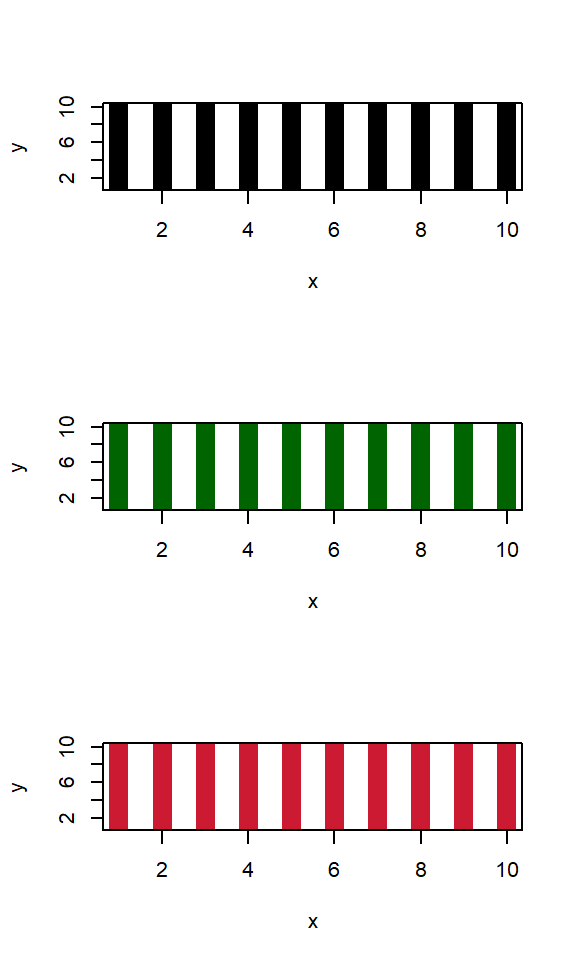
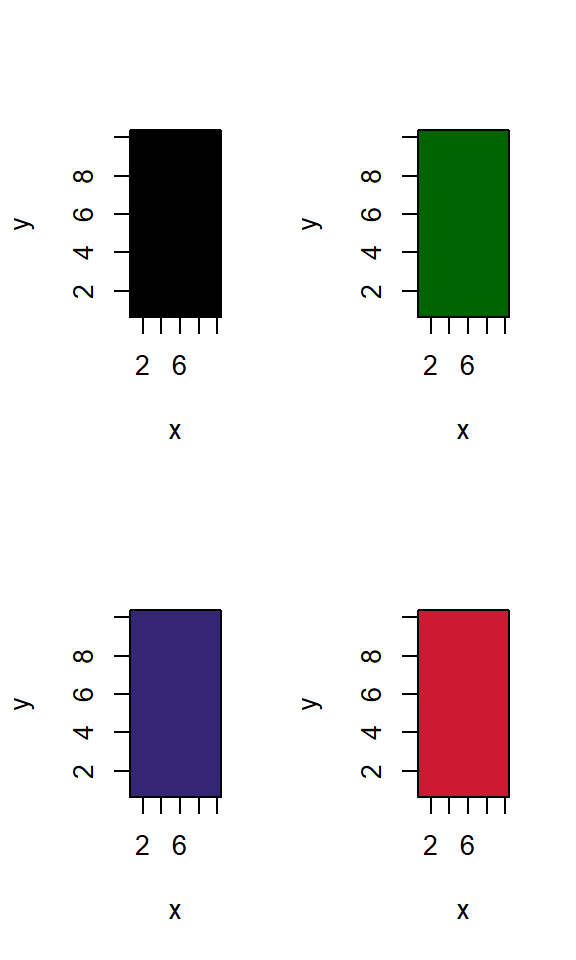
Built site for gh-pages

diff --git a/ADR-2_packages_plot.html b/ADR-2_packages_plot.html
@@ -261,7 +261,7 @@ Diego Nieto Lugilde
 <pre><code>package 'openxlsx' successfully unpacked and MD5 sums checked
 
 The downloaded binary packages are in
-    C:\Users\Diego\AppData\Local\Temp\RtmpwB04m3\downloaded_packages</code></pre>
+    C:\Users\Diego\AppData\Local\Temp\Rtmp2Btp8i\downloaded_packages</code></pre>
 </div>
 </div>
 </section>
@@ -295,7 +295,7 @@ The downloaded binary packages are in
 <pre><code>package 'devtools' successfully unpacked and MD5 sums checked
 
 The downloaded binary packages are in
-    C:\Users\Diego\AppData\Local\Temp\RtmpwB04m3\downloaded_packages</code></pre>
+    C:\Users\Diego\AppData\Local\Temp\Rtmp2Btp8i\downloaded_packages</code></pre>
 </div>
 <div class="sourceCode cell-code" id="cb6"><pre class="sourceCode numberSource r number-lines code-with-copy"><code class="sourceCode r"><span id="cb6-1"><a></a><span class="fu">library</span>(devtools)</span>
 <span id="cb6-2"><a></a></span>
@@ -384,7 +384,7 @@ The downloaded binary packages are in
 <span id="cb11-2"><a></a>y <span class="ot">&lt;-</span> <span class="fu">rep</span>(<span class="fu">c</span>(<span class="st">"high"</span>, <span class="st">"med"</span>, <span class="st">"low"</span>), <span class="dv">10</span>)</span>
 <span id="cb11-3"><a></a>dat <span class="ot">&lt;-</span> <span class="fu">data.frame</span>(<span class="at">size =</span> x, <span class="at">group =</span> y)</span>
 <span id="cb11-4"><a></a></span>
-<span id="cb11-5"><a></a><span class="fu">boxplot</span>(x <span class="sc">~</span> y, dat)</span></code><button title="Copy to Clipboard" class="code-copy-button"><i class="bi"></i></button></pre></div>
+<span id="cb11-5"><a></a><span class="fu">boxplot</span>(size <span class="sc">~</span> group, dat)</span></code><button title="Copy to Clipboard" class="code-copy-button"><i class="bi"></i></button></pre></div>
 <div class="cell-output-display">
 <div>
 <figure>
@@ -505,7 +505,9 @@ The downloaded binary packages are in
 <span id="cb17-4"><a></a><span class="fu">par</span>(<span class="at">mfrow =</span> <span class="fu">c</span>(<span class="dv">3</span>, <span class="dv">1</span>))</span>
 <span id="cb17-5"><a></a><span class="fu">plot</span>(x, y)</span>
 <span id="cb17-6"><a></a><span class="fu">plot</span>(x, y, <span class="at">cex =</span> <span class="dv">2</span>)</span>
-<span id="cb17-7"><a></a><span class="fu">plot</span>(x, y, <span class="at">cex =</span> <span class="fu">seq</span>(<span class="dv">1</span>, <span class="dv">3</span>, <span class="at">length.out =</span> <span class="dv">10</span>))</span></code><button title="Copy to Clipboard" class="code-copy-button"><i class="bi"></i></button></pre></div>
+<span id="cb17-7"><a></a><span class="fu">plot</span>(x, y, </span>
+<span id="cb17-8"><a></a>     <span class="at">cex =</span> <span class="fu">seq</span>(<span class="dv">1</span>, <span class="dv">3</span>, </span>
+<span id="cb17-9"><a></a>               <span class="at">length.out =</span> <span class="dv">10</span>))</span></code><button title="Copy to Clipboard" class="code-copy-button"><i class="bi"></i></button></pre></div>
 </div><div class="column">
 <div class="cell-output-display">
 <div>
@@ -527,12 +529,14 @@ The downloaded binary packages are in
 <div class="sourceCode cell-code" id="cb18"><pre class="sourceCode numberSource r number-lines code-with-copy"><code class="sourceCode r"><span id="cb18-1"><a></a>x <span class="ot">&lt;-</span> <span class="fu">rep</span>(<span class="dv">1</span><span class="sc">:</span><span class="dv">10</span>, <span class="dv">10</span>)</span>
 <span id="cb18-2"><a></a>y <span class="ot">&lt;-</span> <span class="fu">rep</span>(<span class="dv">1</span><span class="sc">:</span><span class="dv">10</span>, <span class="at">each =</span> <span class="dv">10</span>)</span>
 <span id="cb18-3"><a></a></span>
-<span id="cb18-4"><a></a><span class="fu">par</span>(<span class="at">mfrow =</span> <span class="fu">c</span>(<span class="dv">3</span>, <span class="dv">1</span>))</span>
+<span id="cb18-4"><a></a><span class="fu">par</span>(<span class="at">mfrow =</span> <span class="fu">c</span>(<span class="dv">2</span>, <span class="dv">2</span>))</span>
 <span id="cb18-5"><a></a><span class="fu">plot</span>(x, y, <span class="at">pch =</span> <span class="dv">15</span>, <span class="at">cex =</span> <span class="dv">2</span>)</span>
 <span id="cb18-6"><a></a><span class="fu">plot</span>(x, y, <span class="at">pch =</span> <span class="dv">15</span>, <span class="at">cex =</span> <span class="dv">2</span>,</span>
 <span id="cb18-7"><a></a>     <span class="at">col =</span> <span class="st">"dark green"</span>)</span>
 <span id="cb18-8"><a></a><span class="fu">plot</span>(x, y, <span class="at">pch =</span> <span class="dv">15</span>, <span class="at">cex =</span> <span class="dv">2</span>,</span>
-<span id="cb18-9"><a></a>     <span class="at">col =</span> <span class="fu">rgb</span>(<span class="fl">0.8</span>,<span class="fl">0.1</span>,<span class="fl">0.2</span>))</span></code><button title="Copy to Clipboard" class="code-copy-button"><i class="bi"></i></button></pre></div>
+<span id="cb18-9"><a></a>     <span class="at">col =</span> <span class="st">"#352575"</span>)</span>
+<span id="cb18-10"><a></a><span class="fu">plot</span>(x, y, <span class="at">pch =</span> <span class="dv">15</span>, <span class="at">cex =</span> <span class="dv">2</span>,</span>
+<span id="cb18-11"><a></a>     <span class="at">col =</span> <span class="fu">rgb</span>(<span class="fl">0.8</span>,<span class="fl">0.1</span>,<span class="fl">0.2</span>))</span></code><button title="Copy to Clipboard" class="code-copy-button"><i class="bi"></i></button></pre></div>
 </div><div class="column">
 <div class="cell-output-display">
 <div>

diff --git a/ADR-2-Ejercicios.html b/ADR-2-Ejercicios.html
@@ -208,7 +208,7 @@ Nota
 </div>
 <section id="parte-1-gráficas-y-figuras" class="level1">
 <h1>Parte 1: Gráficas y figuras</h1>
-<p><strong>1. Dibuja un histograma del vector <code>a</code> que creaste en los Ejercicios de la parte 1.</strong></p>
+<p><strong>1. Dibuja un histograma del vector <code>a</code> que creaste en los Ejercicios de la Clase anterior.</strong></p>
 <div class="callout callout-style-default callout-tip callout-titled">
 <div class="callout-header d-flex align-content-center" data-bs-toggle="collapse" data-bs-target=".callout-2-contents" aria-controls="callout-2" aria-expanded="false" aria-label="Toggle callout">
 <div class="callout-icon-container">
@@ -225,8 +225,8 @@ Pista
 </div>
 </div>
 </div>
-<p><strong>2. Cambia el color de las barras con la opción <code>col</code> y cambia el color de los cuadros con la opción de <code>border</code>.</strong></p>
-<p><strong>3. Usa <code>abline()</code> para dibujar la media de la distribución como una línea vertical punteada.</strong></p>
+<p><strong>2. Cambia el color de las barras del histograma con la opción <code>col</code> y cambia el color de los bordes con la opción de <code>border</code>.</strong></p>
+<p><strong>3. Usa <code>abline()</code> para representar el valor de la media de la distribución como una línea vertical punteada.</strong></p>
 <div class="callout callout-style-default callout-tip callout-titled">
 <div class="callout-header d-flex align-content-center" data-bs-toggle="collapse" data-bs-target=".callout-3-contents" aria-controls="callout-3" aria-expanded="false" aria-label="Toggle callout">
 <div class="callout-icon-container">
@@ -273,7 +273,7 @@ Pista
 </div>
 <div id="callout-5" class="callout-5-contents callout-collapse collapse">
 <div class="callout-body-container callout-body">
-<p>Recuerda, además, que la función <code>abline (a, b)</code> dibuja una línea en la gráfica ya existente con la pendiente especificada <code>b</code> e intercepto <code>a</code>. Para calcular los valores de la pendiente, puedes usar la función <code>lm(x, y)</code>, que genera un modelo lineal entre las dos variables.</p>
+<p>Recuerda, además, que la función <code>abline (a, b)</code> dibuja una línea en la gráfica ya existente con la pendiente especificada <code>b</code> e intercepto <code>a</code>. Para calcular los valores de la pendiente, puedes usar la función <code>lm(x ~ y)</code>, que genera un modelo lineal entre las dos variables.</p>
 </div>
 </div>
 </div>
@@ -290,7 +290,7 @@ Pista
 </div>
 <div id="callout-6" class="callout-6-contents callout-collapse collapse">
 <div class="callout-body-container callout-body">
-<p>Hay varias funciones (<code>points(x, y)</code>, <code>segments(x0, y0, x1, y1)</code>, <code>arrows(x0, y0, x1, y1)</code>, <code>polygons(x, y)</code>, que en lugar de generar gráficos nuevos, dibuja puntos, segmentos de línea, flechas o polígonos en el último gráfico que se haya generado.</p>
+<p>Hay varias funciones (<code>points(x, y)</code>, <code>segments(x0, y0, x1, y1)</code>, <code>arrows(x0, y0, x1, y1)</code>, <code>polygons(x, y)</code>), que en lugar de generar gráficos nuevos, dibuja puntos, segmentos de línea, flechas o polígonos en el último gráfico que se haya generado.</p>
 </div>
 </div>
 </div>

diff --git a/ADR-2-Homeworks.html b/ADR-2-Homeworks.html
@@ -208,7 +208,7 @@ Nota
 </div>
 <section id="parte-1---realizando-gráficas" class="level2">
 <h2 class="anchored" data-anchor-id="parte-1---realizando-gráficas">Parte 1 - Realizando gráficas</h2>
-<p><strong>1. Carga de nuevo la tabla de datos almacenada en el fichero “Test Traits.csv”. Dibuja tres histogramas en los que se observe la distribución de frecuencias de los valores de altura de las especies (Height), masa foliar (Leaf.Mass) y superficie foliar específica (SLA). Asegurate que los tres histogramas tienen todos el mísmo número de barras y su presentación es aceptable para su publicación en un documento formal en español.</strong></p>
+<p><strong>1. Carga de nuevo la tabla de datos almacenada en el fichero “Test Traits.csv”. Dibuja tres histogramas en los que se observe la distribución de frecuencias de los valores de altura de las especies (Height), masa foliar (Leaf.Mass) y superficie foliar específica (SLA). Asegurate que los tres histogramas tienen todos el mismo número de barras y su presentación es aceptable para su publicación en un documento formal en español.</strong></p>
 <p><strong>2. Realiza un gráfico de puntos en el que se vean la altura de las distintas especies en el eje x y la superficie específica de la hoja (SLA) en el eje y. Cada punto representará las medidas de altura y SLA de cada especie. Viendo el gráfico ¿crées que hay alguna relación entre la altura de las especies y la superficie específica de sus hojas? Argumenta tu respuesta.</strong></p>
 <p><strong>3. Usa la función <code>par()</code> para mejorar la presentación gráfica de la figura. Puedes usar los parámetros que consideres oportunos y generar la gráfica como a ti más te guste. Eso si, debes modificar al menos 2-3 argumentos.</strong></p>
 <p><strong>4. Repite los ejercicios 2 y 3 dos veces más. Una para comparar la altura de las plantas (Height) con la masa foliar (Leaf.Mass) y otra para comparar la masa foliar (Leaf.Mass) con su superficie foliar específica (SLA).</strong></p>
